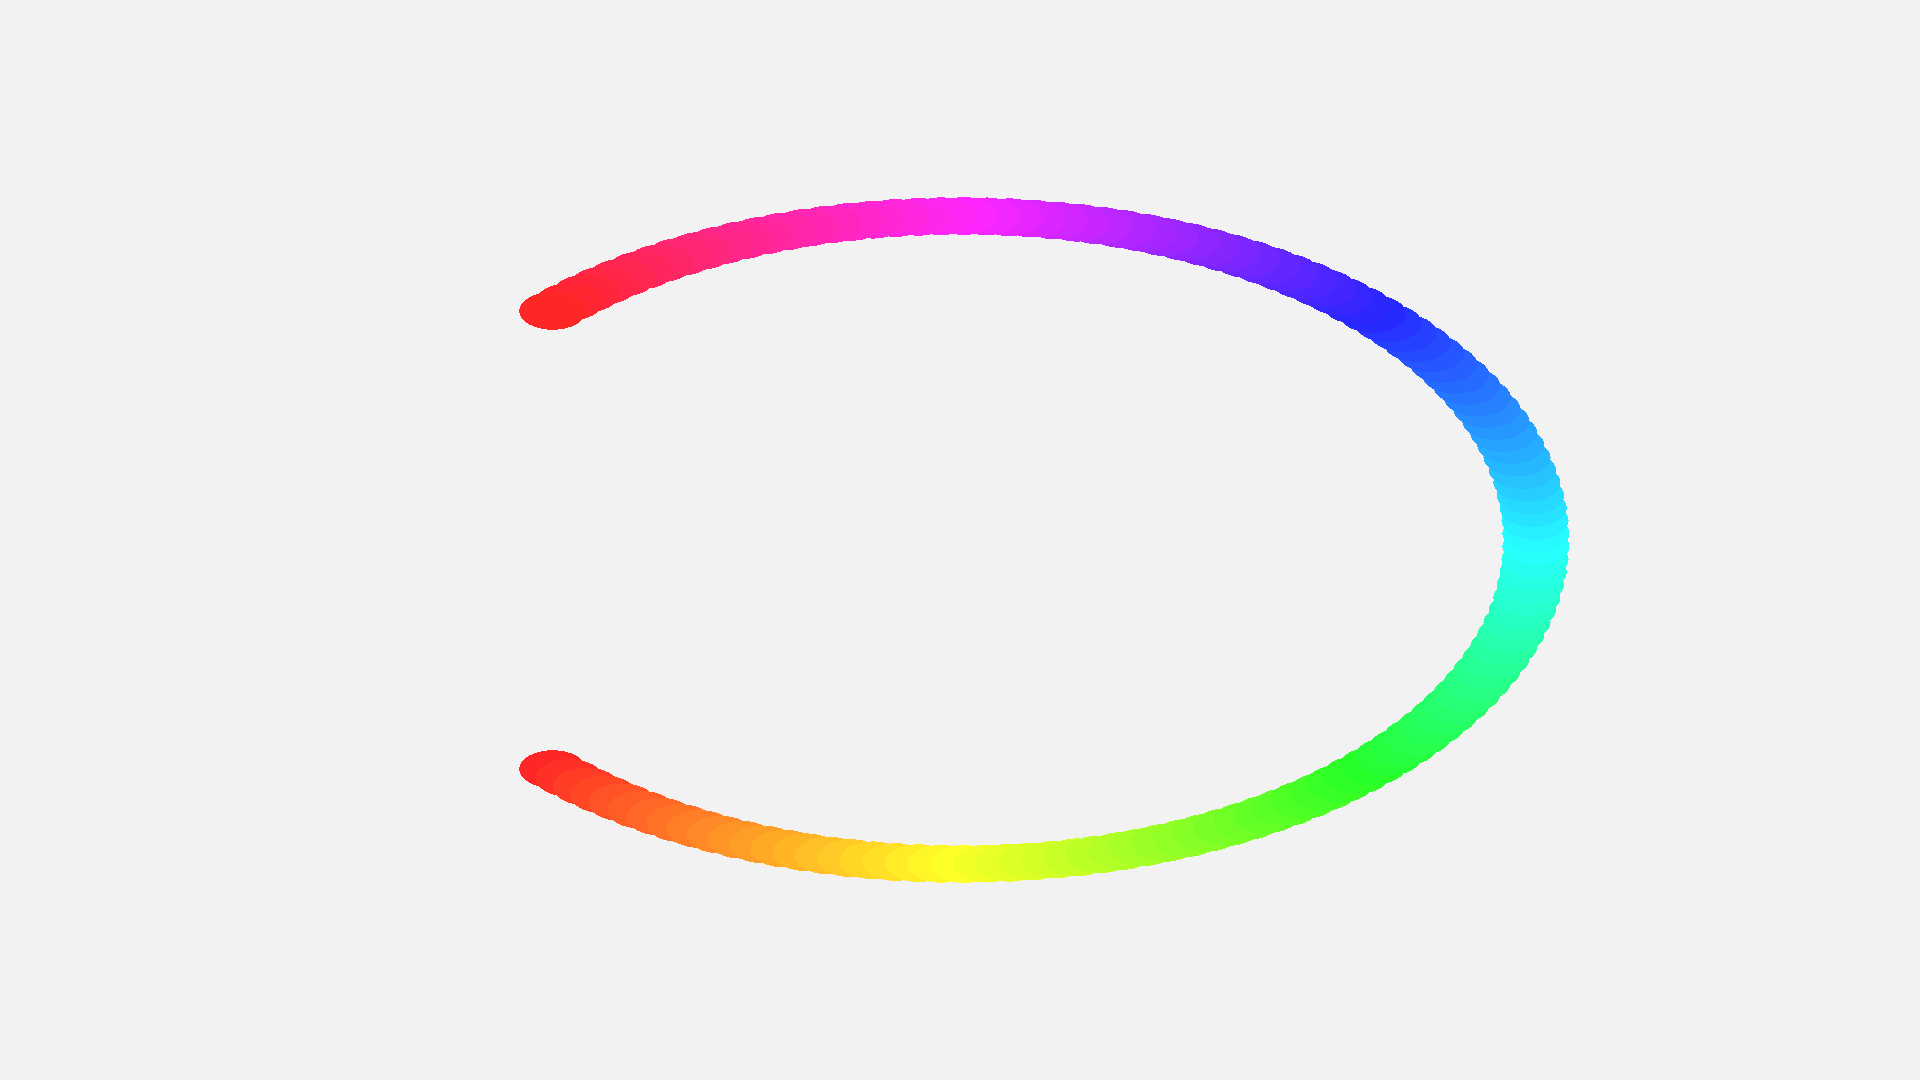
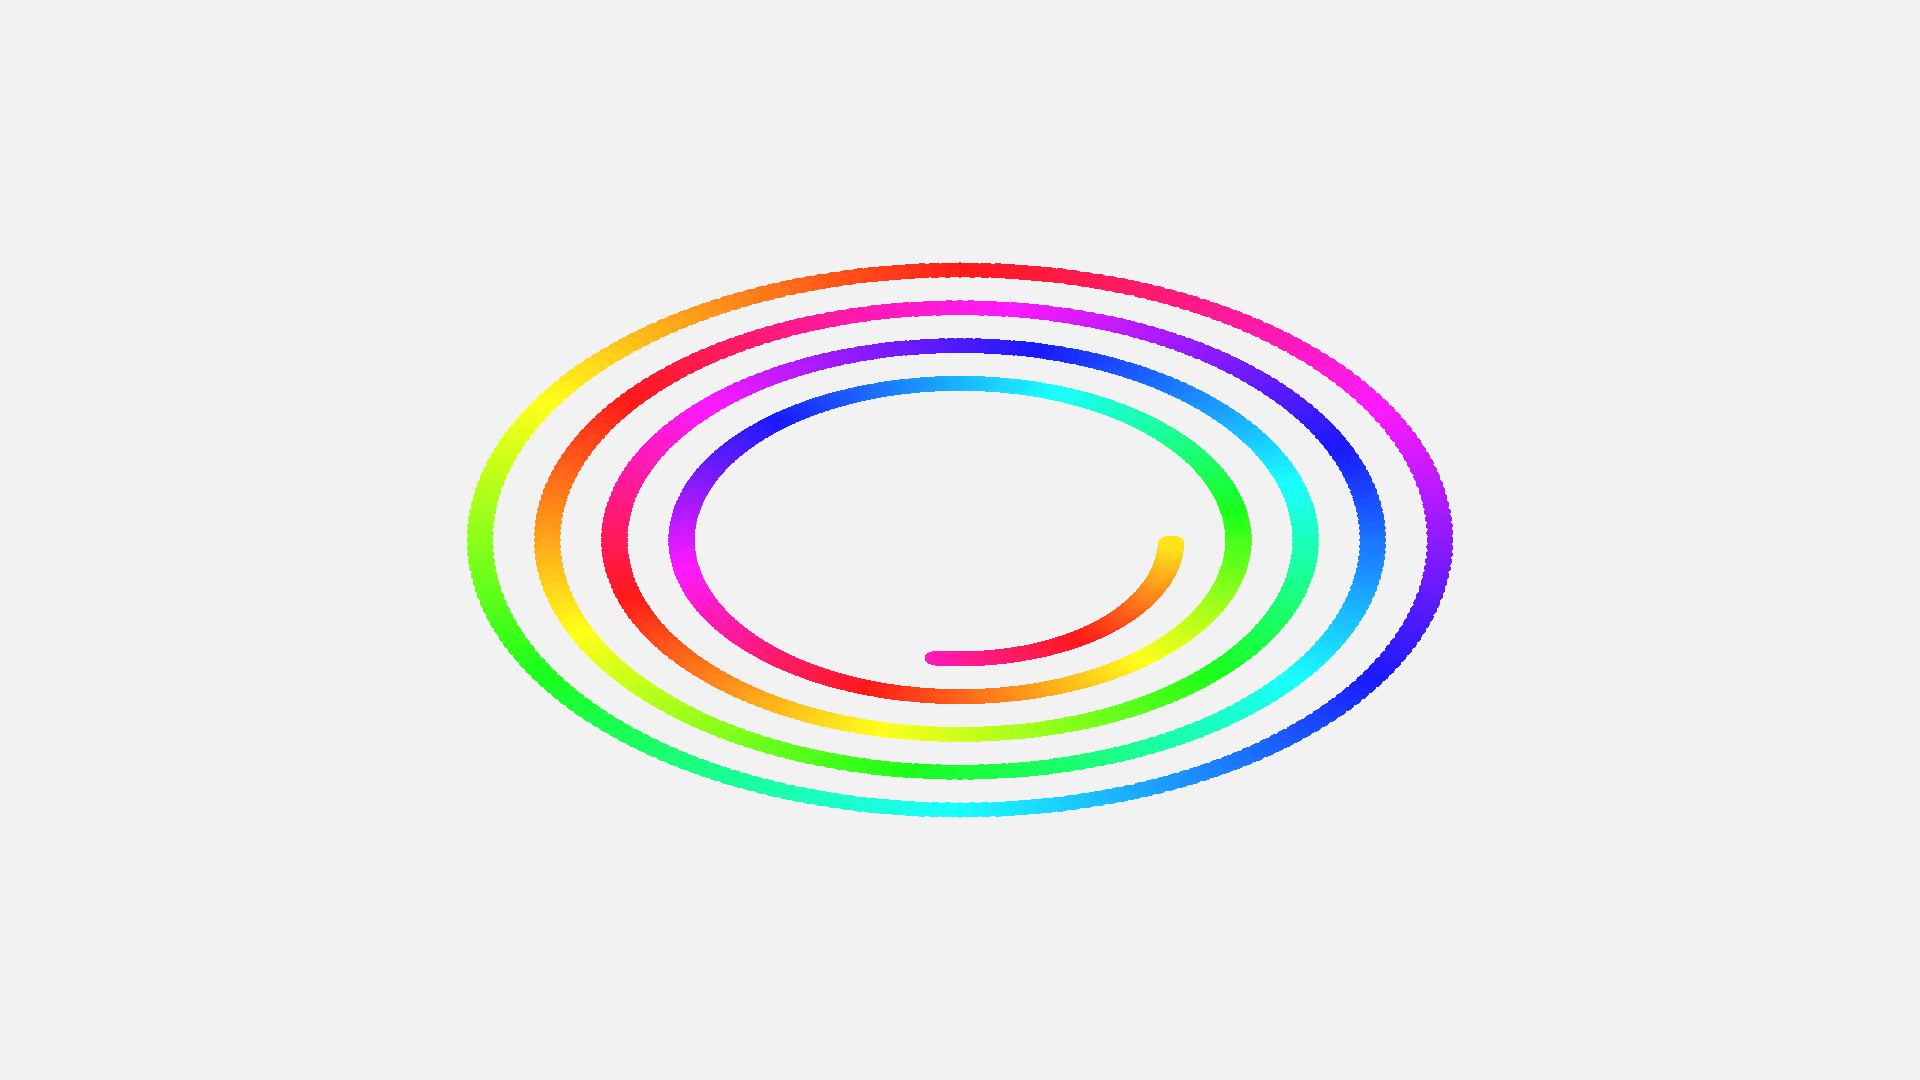
feat: add Apple Watch-style rainbow arc with 6 concentric rings
Created proper concentric rainbow rings (not just an arc) with:
- 6 concentric rings of different radii
- 240 circles per ring for smooth gradient
- Full 360-degree circles (not arc)
- Each ring offset by 0.15 hue for color variation
- 1,440 total circles demonstrating multi-object rendering

Also updated README with:
- Recent updates section showing v0.2.0 progress
- Fixed showcase description (1,440 circles)
- Added technical achievements (dynamic offsets, index buffer fixes)

Result: Beautiful Apple Watch-style concentric rainbow rings with
smooth color gradients that showcase the multi-object rendering fix.

Changed region(s): [[0.2188, 0.1833, 0.8438, 0.825]]

diff --git a/examples/rainbow.rs b/examples/rainbow.rs
@@ -69,39 +69,44 @@ async fn main() -> Result<(), Box<dyn std::error::Error>> {
 fn build_rainbow_arc() -> SceneGraph {
     let mut s = SceneGraph::new();
 
-    // Arc parameters
-    let radius = 0.6; // Distance from center
-    let num_circles = 120; // Number of circles for smooth gradient
-    let circle_size = 0.035; // Size of each circle
-    let start_angle = -135.0f32; // Start angle in degrees
-    let end_angle = 135.0f32; // End angle in degrees (270 degree arc)
+    // Apple Watch-style concentric rings
+    let num_rings = 6; // Number of concentric rings
+    let base_radius = 0.15; // Starting radius
+    let ring_spacing = 0.07; // Space between rings
+    let circles_per_ring = 240; // More circles = smoother gradient
+    let circle_size = 0.014; // Smaller circles for smoother appearance
 
-    for i in 0..num_circles {
-        let progress = i as f32 / (num_circles - 1) as f32;
+    for ring_idx in 0..num_rings {
+        let radius = base_radius + ring_idx as f32 * ring_spacing;
 
-        // Calculate angle
-        let angle_deg = start_angle + (end_angle - start_angle) * progress;
-        let angle_rad = angle_deg.to_radians();
+        // Each ring has a different color range
+        let hue_offset = ring_idx as f32 * 0.15; // Offset colors between rings
 
-        // Calculate position on arc
-        let x = radius * angle_rad.cos();
-        let y = radius * angle_rad.sin();
+        for i in 0..circles_per_ring {
+            let progress = i as f32 / circles_per_ring as f32;
 
-        // Calculate rainbow color (full spectrum)
-        let hue = progress; // 0.0 to 1.0 for full rainbow
-        let (r, g, b) = hsv_to_rgb(hue, 0.85, 1.0);
+            // Full circle (360 degrees)
+            let angle = progress * 2.0 * std::f32::consts::PI;
 
-        // Create circle
-        let node = s.create_node_with_transform(
-            format!("rainbow_{}", i),
-            Transform::from_translation(x, y, 0.0),
-        );
-        s.get_node_mut(node)
-            .unwrap()
-            .set_renderable(Renderable::Circle {
-                radius: circle_size,
-                color: Color::new(r, g, b),
-            });
+            // Position on ring
+            let x = radius * angle.cos();
+            let y = radius * angle.sin();
+
+            // Rainbow gradient that cycles around the ring
+            let hue = (progress + hue_offset) % 1.0;
+            let (r, g, b) = hsv_to_rgb(hue, 0.9, 1.0);
+
+            let node = s.create_node_with_transform(
+                format!("ring{}_{}", ring_idx, i),
+                Transform::from_translation(x, y, 0.0),
+            );
+            s.get_node_mut(node)
+                .unwrap()
+                .set_renderable(Renderable::Circle {
+                    radius: circle_size,
+                    color: Color::new(r, g, b),
+                });
+        }
     }
 
     s

diff --git a/README.md b/README.md
@@ -10,9 +10,9 @@
 ## 🎬 Showcase
 
 <p align="center">
-  <img src="docs/images/rainbow.png" alt="Rainbow Arc" width="800"/>
+  <img src="docs/images/rainbow.png" alt="Rainbow Rings" width="800"/>
   <br/>
-  <em>120 circles, dynamic offsets, 60 FPS rendering - Apple Watch-style rainbow</em>
+  <em>1,440 circles (6 rings × 240/ring) - Apple Watch-style rainbow with smooth gradients</em>
 </p>
 
 ### Feature Gallery
@@ -84,6 +84,21 @@ Real-world benchmarks on 1920x1080 resolution with 10 objects:
 - ✅ **SIMD math** - Hardware-accelerated vector operations
 - ✅ **Zero-copy rendering** - Efficient GPU buffer management
 - ✅ **Type-safe** - Rust compile-time guarantees
+- ✅ **Dynamic uniform offsets** - Multi-object rendering in single pass (FIXED!)
+- ✅ **Proper index buffers** - u16 types for all draw calls (FIXED!)
+
+---
+
+## 🔥 Recent Updates
+
+### v0.2.0 (November 2025)
+- ✅ **Multi-object rendering bug FIXED** - Dynamic uniform buffer offsets now working
+- ✅ **Lines & arrows rendering** - Fixed index buffer type mismatch (u16)
+- ✅ **Apple Watch rainbow** - 1,440 circle concentric rings showcase
+- ✅ **Professional showcases** - High-quality demo images in README
+- ✅ **Smooth gradients** - 240 circles per ring for seamless color transitions
+
+**Key Fix:** Objects with different transforms now render at correct positions using dynamic offsets to a 256KB uniform buffer supporting up to 1,024 objects per render pass.
 
 ---
 
